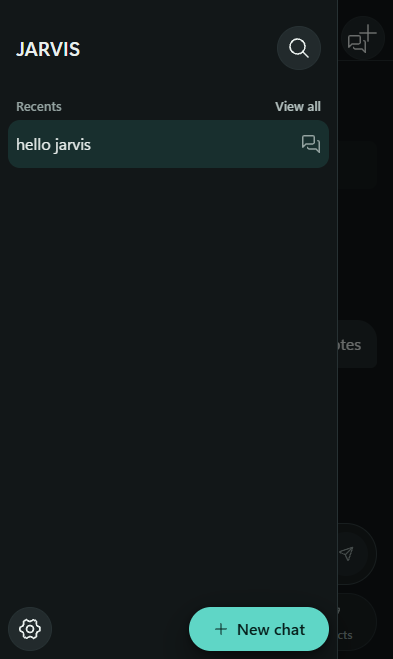
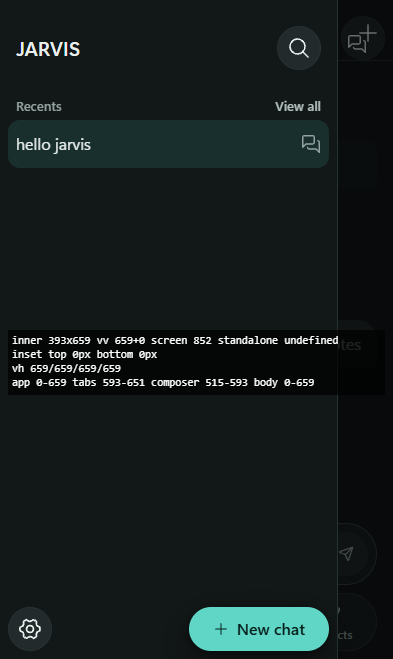
Phone: a home-screen app fills the full screen height (iOS reports the page one status-bar inset short)

diff --git a/src/mobile/main.js b/src/mobile/main.js
@@ -37,7 +37,13 @@ function fit() {
   // Only with the keyboard up does the app follow the visual viewport. Closed, the CSS default (the full dynamic viewport) is used:
   // in a home-screen app iOS can report a visual viewport shorter than the screen, which left an empty strip at the bottom.
   if (open) { root.style.setProperty('--vvh', `${Math.round(h)}px`); root.style.setProperty('--vvt', `${Math.round(top)}px`); }
-  else { root.style.removeProperty('--vvh'); root.style.removeProperty('--vvt'); }
+  else {
+    // A home-screen app on iOS reports a page one status-bar inset shorter than the screen (793 of 852 pt on an iPhone 15 Pro); the app fills the whole screen.
+    const full = Math.max(screen.width, screen.height);
+    if (navigator.standalone && innerHeight > innerWidth && innerHeight < full) root.style.setProperty('--vvh', `${full}px`);
+    else root.style.removeProperty('--vvh');
+    root.style.removeProperty('--vvt');
+  }
   if ((app.dataset.kb === 'open') !== open) { app.dataset.kb = open ? 'open' : 'closed'; if (open) chat.afterSend(); }
 }
 fit();
@@ -287,6 +293,7 @@ refreshSend();
   probe.style.cssText = 'position:fixed;visibility:hidden;padding:env(safe-area-inset-top) 0 env(safe-area-inset-bottom) 0';
   document.body.append(dbg, probe);
   const r = (s) => { const n = document.querySelector(s); if (!n) return 'none'; const b = n.getBoundingClientRect(); return `${Math.round(b.top)}-${Math.round(b.bottom)}`; };
-  const show = () => { const c = getComputedStyle(probe); dbg.textContent = `inner ${innerWidth}x${innerHeight} vv ${vv ? Math.round(vv.height) : '-'}+${vv ? Math.round(vv.offsetTop) : '-'} screen ${screen.height} standalone ${navigator.standalone}\ninset top ${c.paddingTop} bottom ${c.paddingBottom}\napp ${r('#m-app')} tabs ${r('.m-tabs')} composer ${r('#m-composer')} body ${r('body')}`; };
+  const show = () => { const c = getComputedStyle(probe); dbg.textContent = `inner ${innerWidth}x${innerHeight} vv ${vv ? Math.round(vv.height) : '-'}+${vv ? Math.round(vv.offsetTop) : '-'} screen ${screen.height} standalone ${navigator.standalone}\ninset top ${c.paddingTop} bottom ${c.paddingBottom}\nvh ${[100,'100lvh','100svh','100dvh'].map((u)=>{probe.style.height=typeof u==='number'?'100vh':u;return Math.round(probe.getBoundingClientRect().height);}).join('/')}
+app ${r('#m-app')} tabs ${r('.m-tabs')} composer ${r('#m-composer')} body ${r('body')}`; };
   show(); setInterval(show, 1000);
 }
